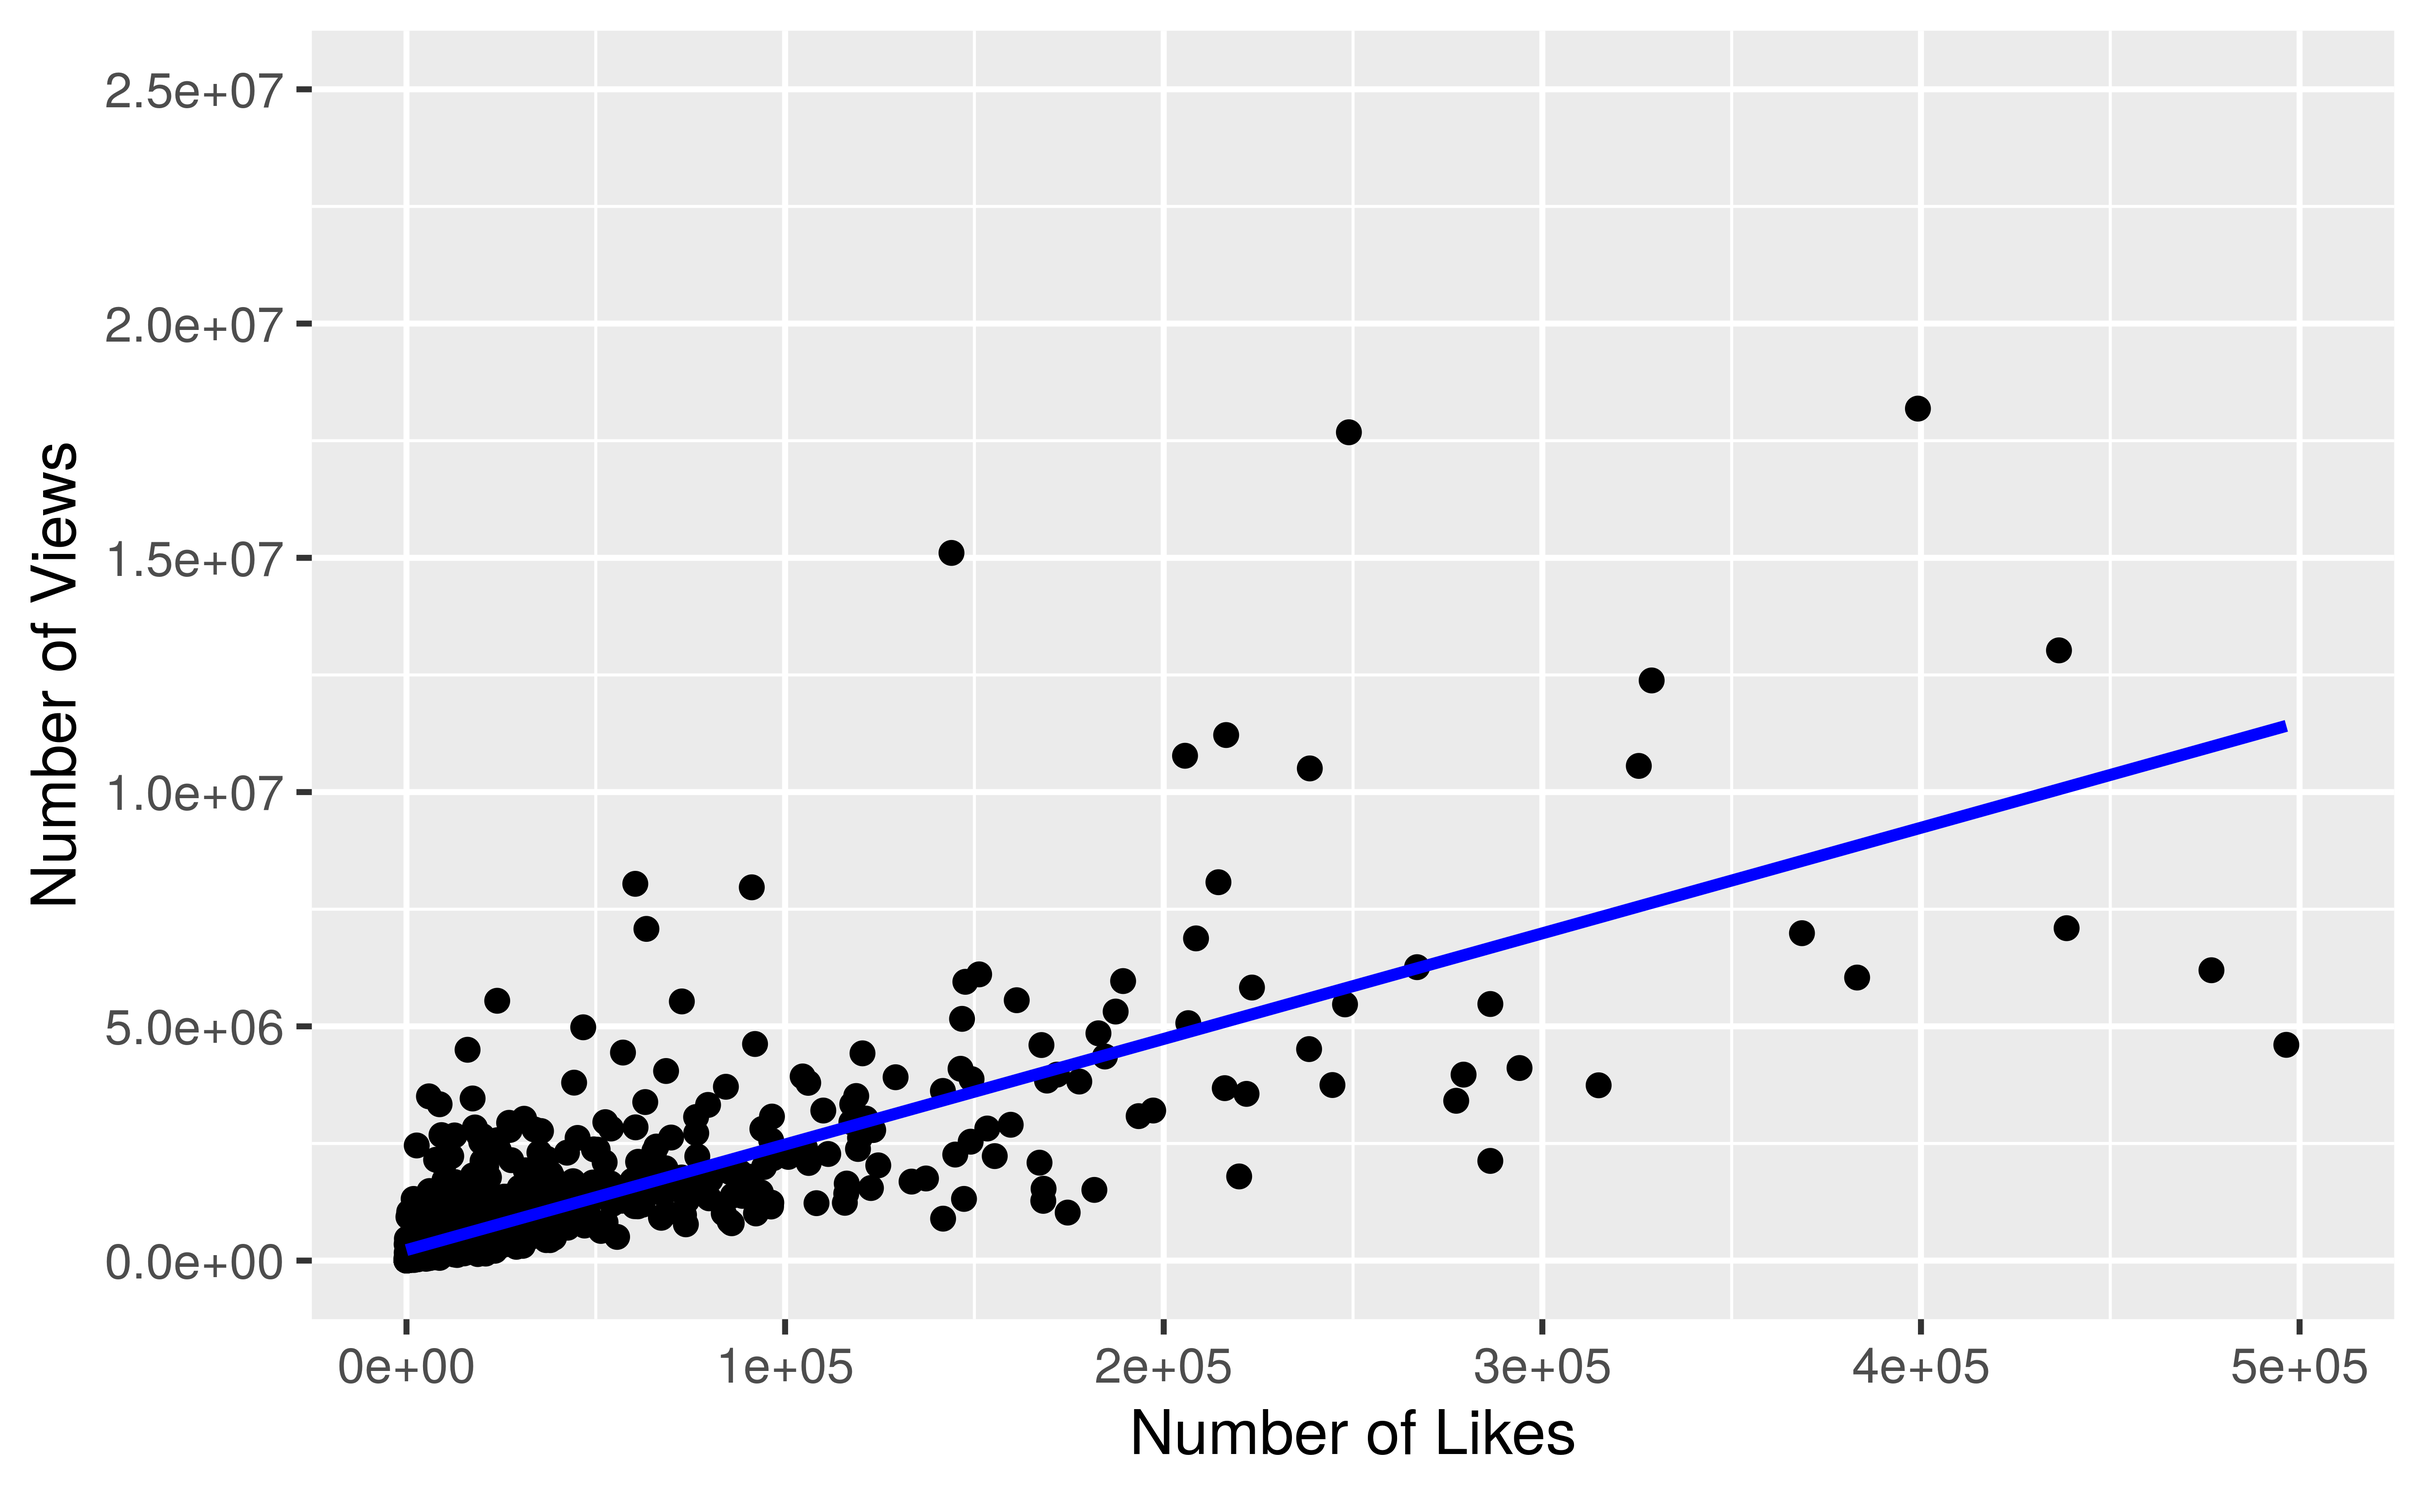
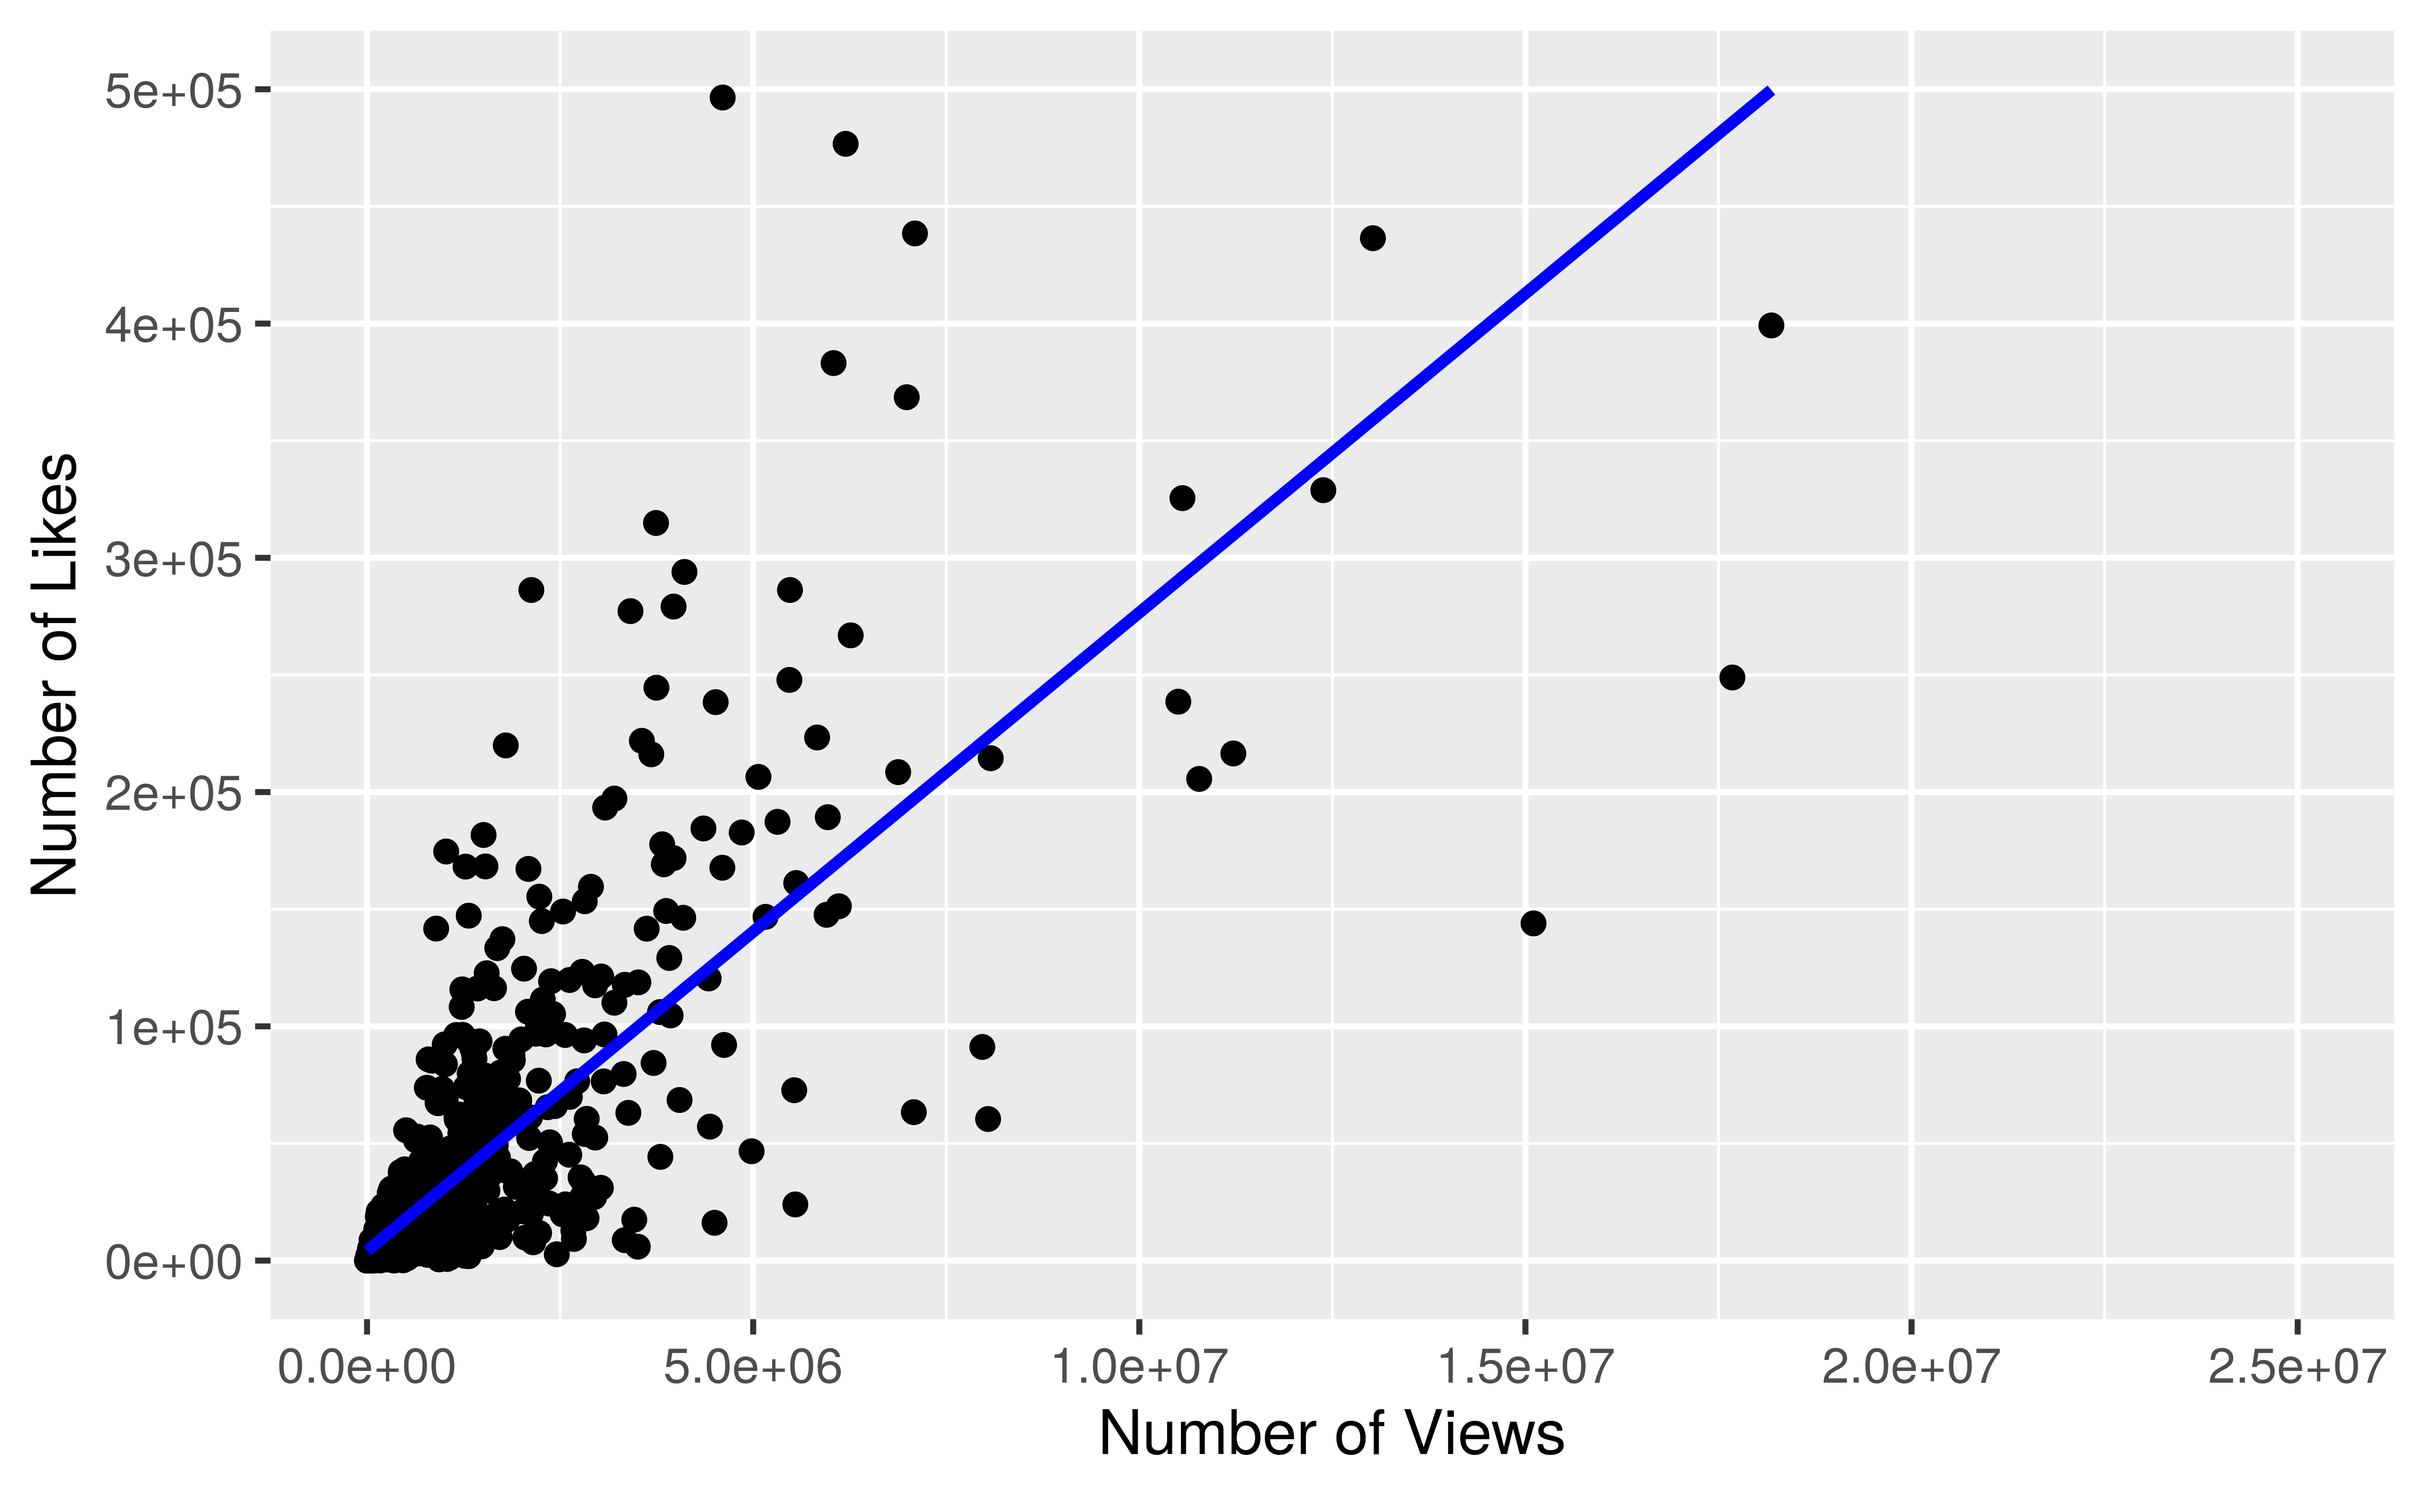
Pinky square

diff --git a/presentation/presentation.html b/presentation/presentation.html
@@ -94,23 +94,7 @@ class: inverse, middle, center
 
 # For What
 
-- The presentation is created using the `xaringan` package
 
-- Use `---` to separate slides and `--` for incremental builds
-
---
-
-- Like this
-
----
-
-# Layouts
-
-
-
-.footnote[
-[*] And add footnotes
-]
 
 ---
 
@@ -218,21 +202,35 @@ class: inverse, middle, center
 
 
 
+
+
+
+
 ```
-## # A tibble: 2 x 5
-##   term        estimate std.error statistic p.value
-##   &lt;chr&gt;          &lt;dbl&gt;     &lt;dbl&gt;     &lt;dbl&gt;   &lt;dbl&gt;
-## 1 (Intercept) 128618.  65270.         1.97  0.0490
-## 2 likes           27.0     0.374     72.2   0
+## `geom_smooth()` using formula 'y ~ x'
 ```
 
-
-
-
+&lt;img src="presentation_files/figure-html/popular-categories-1.png" width="80%" /&gt;
 
 ---
 
-# The Most Popular Video as of 2017
+# Statistical Inferences 
+
+
+`$$Y_i = 4355+\frac{3}{100}X_i$$`
+- R^2 of 0.8
+
+- The most popular video of 2017, Échame La Culpa has a total of 2,061,202,501 views as of November 28th, 2020
+
+$$Y_i = 4355+\frac{3}{100}(2,061,202,501) $$
+- With the least squared regression equation, we expect the total number of likes to be 61,428,189 but it is 8,900,000.
+
+.footnote[
+Video: https://www.youtube.com/watch?feature=youtu.be&amp;v=TyHvyGVs42U&amp;app=desktop
+]
+---
+
+# The Most Popular Video in of 2017
 
 &lt;div class="figure" style="text-align: center"&gt;
 &lt;img src="https://maddownload.com/wp-content/uploads/2018/12/luis-fonsi-demi-lovato-echame-la-culpa-08.jpg" alt="Luis Fonsi, Demi Lovato - Échame La Culpa" width="70%" /&gt;
@@ -241,24 +239,6 @@ class: inverse, middle, center
 
 
 ---
-
-# Statistical Inferences 
-
-
-
-
-`$$Y_i=\frac{1}{n}\sum_{i=1}^nX_i$$`
-
-Limitations:
-
-1. The source code of a LaTeX math expression must be in one line, unless it is inside a pair of double dollar signs, in which case the starting `$$` must appear in the very beginning of a line, followed immediately by a non-space character, and the ending `$$` must be at the end of a line, led by a non-space character;
-
-1. There should not be spaces after the opening `$` or before the closing `$`.
-
-1. Math does not work on the title slide (see [#61](https://github.com/yihui/xaringan/issues/61) for a workaround).
-
----
-
 # End
     </textarea>
 <style data-target="print-only">@media screen {.remark-slide-container{display:block;}.remark-slide-scaler{box-shadow:none;}}</style>
